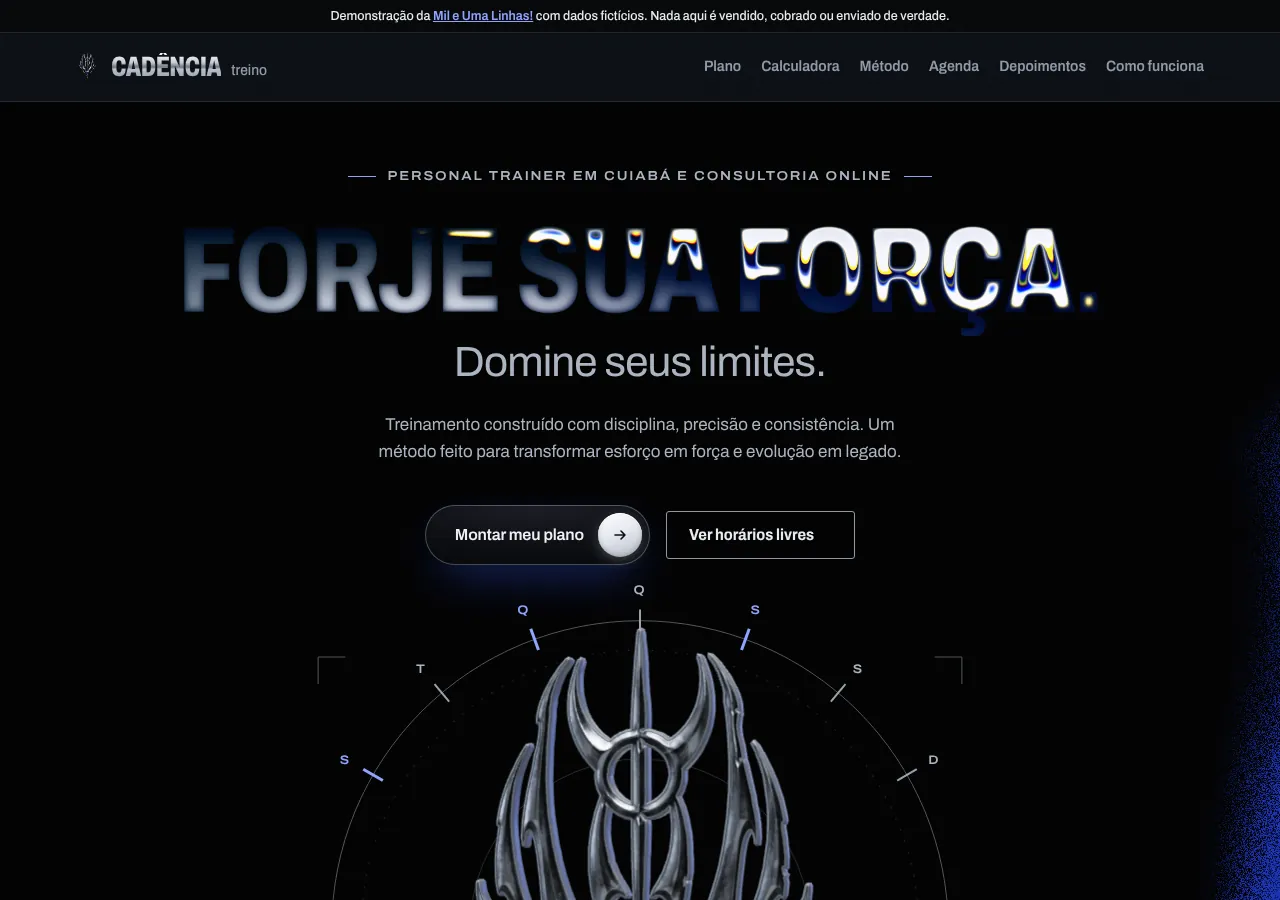
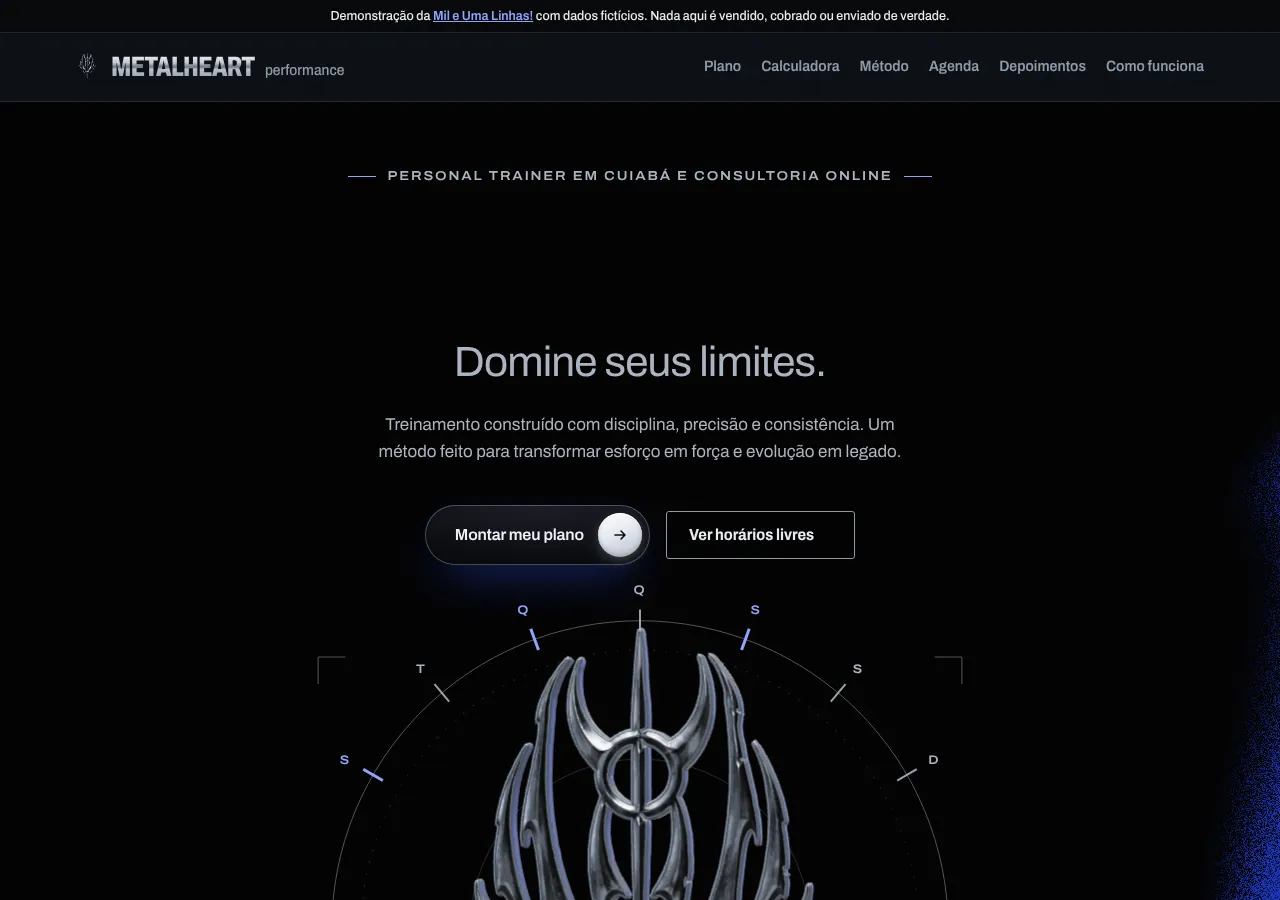
Renomeia para Metalheart Performance
Troca o nome Cadência Treino por Metalheart Performance no título, no topo, no rodapé em retícula, na página 404 e na documentação. Prende a marca apagada dentro da seção do método. A chave do localStorage continua cadencia-reserva.

diff --git a/index.html b/index.html
@@ -4,7 +4,7 @@
   <meta charset="utf-8">
   <meta name="viewport" content="width=device-width, initial-scale=1">
   <meta http-equiv="Content-Security-Policy" content="default-src 'self'; script-src 'self'; style-src 'self'; img-src 'self' data: blob:; font-src 'self'; connect-src 'none'; object-src 'none'; base-uri 'none'; form-action 'none'">
-  <title>Cadência Treino | Personal trainer em Cuiabá e consultoria online</title>
+  <title>Metalheart Performance | Personal trainer em Cuiabá e consultoria online</title>
   <meta name="description" content="Site de demonstração de um personal trainer fictício: monte um plano de treino, calcule IMC e gasto calórico e simule a reserva de um horário. Feito pela Mil e Uma Linhas!.">
   <meta name="theme-color" content="#050709">
   <link rel="canonical" href="https://toshiro01001.github.io/personal/">
@@ -22,10 +22,10 @@
 
 <header class="topo">
   <div class="grade topo-conteudo">
-    <a class="marca" href="#inicio" aria-label="Cadência Treino, início da página">
+    <a class="marca" href="#inicio" aria-label="Metalheart Performance, início da página">
       <img class="marca-simbolo" src="img/sigilo-marca.webp" width="96" height="129" alt="">
-      <span class="marca-nome">CADÊNCIA</span>
-      <span class="marca-sub">treino</span>
+      <span class="marca-nome">METALHEART</span>
+      <span class="marca-sub">performance</span>
     </a>
     <nav class="menu" aria-label="Seções da página">
       <a href="#plano">Plano</a>
@@ -67,7 +67,7 @@
           <line class="mira-dia aceso" x1="73.1" y1="169.0" x2="55.8" y2="159.0"/><text class="aceso" x="40.2" y="154.0" text-anchor="middle">S</text><line class="mira-dia" x1="131.6" y1="99.3" x2="118.7" y2="84.0"/><text class="" x="107.2" y="74.2" text-anchor="middle">T</text><line class="mira-dia aceso" x1="210.4" y1="53.8" x2="203.6" y2="35.0"/><text class="aceso" x="197.4" y="22.1" text-anchor="middle">Q</text><line class="mira-dia" x1="300.0" y1="38.0" x2="300.0" y2="18.0"/><text class="" x="300.0" y="4.0" text-anchor="middle">Q</text><line class="mira-dia aceso" x1="389.6" y1="53.8" x2="396.4" y2="35.0"/><text class="aceso" x="402.6" y="22.1" text-anchor="middle">S</text><line class="mira-dia" x1="468.4" y1="99.3" x2="481.3" y2="84.0"/><text class="" x="492.8" y="74.2" text-anchor="middle">S</text><line class="mira-dia" x1="526.9" y1="169.0" x2="544.2" y2="159.0"/><text class="" x="559.8" y="154.0" text-anchor="middle">D</text>
           <text x="18" y="292">eixo</text><text x="582" y="292" text-anchor="end">3 dias</text>
         </svg>
-        <img class="hero-foto sigilo-fixo" src="img/sigilo-frente.webp" width="640" height="860" alt="Símbolo da Cadência Treino: um emblema de lâminas de aço escuro com pontas afiadas e uma gema azul-cobalto na base. Em volta, uma mira marca os sete dias da semana, com três acesos." fetchpriority="high" decoding="async">
+        <img class="hero-foto sigilo-fixo" src="img/sigilo-frente.webp" width="640" height="860" alt="Símbolo da Metalheart Performance: um emblema de lâminas de aço escuro com pontas afiadas e uma gema azul-cobalto na base. Em volta, uma mira marca os sete dias da semana, com três acesos." fetchpriority="high" decoding="async">
         <div class="sigilo-3d" id="sigilo-3d"></div>
         <canvas class="sigilo-quadro" id="sigilo-quadro" width="640" height="860" aria-hidden="true"></canvas>
         </div>
@@ -400,7 +400,7 @@
       <p class="rodape-miudo">Fonte Archivo, licença OFL. Nenhum dado é coletado.</p>
     </div>
   </div>
-  <div class="hwf" id="hwf" data-palavra="cadência"><canvas aria-hidden="true"></canvas></div>
+  <div class="hwf" id="hwf" data-palavra="metalheart"><canvas aria-hidden="true"></canvas></div>
 </footer>
 
 <script type="module" src="js/premium/premium.js"></script>

diff --git a/404.html b/404.html
@@ -4,7 +4,7 @@
   <meta charset="utf-8">
   <meta name="viewport" content="width=device-width, initial-scale=1">
   <meta http-equiv="Content-Security-Policy" content="default-src 'self'; script-src 'none'; style-src 'self'; img-src 'self' data:; font-src 'self'; connect-src 'none'; object-src 'none'; base-uri 'none'; form-action 'none'">
-  <title>Página não encontrada | Cadência Treino</title>
+  <title>Página não encontrada | Metalheart Performance</title>
   <meta name="robots" content="noindex">
   <link rel="icon" href="/personal/favicon.svg" type="image/svg+xml">
   <link rel="stylesheet" href="/personal/css/estilo.css">
@@ -15,9 +15,9 @@
 </p>
 <header class="topo">
   <div class="grade topo-conteudo">
-    <a class="marca" href="/personal/" aria-label="Cadência Treino, voltar ao início">
-      <span class="marca-nome">CADÊNCIA</span>
-      <span class="marca-sub">treino</span>
+    <a class="marca" href="/personal/" aria-label="Metalheart Performance, voltar ao início">
+      <span class="marca-nome">METALHEART</span>
+      <span class="marca-sub">performance</span>
     </a>
   </div>
 </header>

diff --git a/css/estilo.css b/css/estilo.css
@@ -1,4 +1,4 @@
-/* Cadência Treino: estilo. Ver docs/identidade.md para a lógica das escolhas.
+/* Metalheart Performance (antes Cadência Treino): estilo. Ver docs/identidade.md para a lógica das escolhas.
    Leva final: seções em Giz seguem o padrão de marca de atleta (Lando Norris DS),
    seções em Ferro e rodapé seguem o painel escuro de bordas finas (Ledger DS).
    A paleta não muda; o lima e o esmeralda dos dois sistemas viram Cobalto. */
@@ -1142,3 +1142,4 @@ body::before { content: ""; position: fixed; inset: 0; z-index: 40; pointer-even
 .metal-btn { max-width: 100%; }
 .resultado-plano > * { min-width: 0; }
 @media (max-width: 420px) { .resultado-plano .metal-btn { white-space: normal; text-align: left; line-height: 1.2; padding-left: 22px; } }
+#metodo { overflow-x: clip; }

diff --git a/js/app.js b/js/app.js
@@ -1,4 +1,4 @@
-/* Cadência Treino: comportamento da página.
+/* Metalheart Performance (antes Cadência Treino): comportamento da página.
    Tudo roda no navegador. Nenhum pedido sai para a internet.
    Três partes: montador de plano, calculadora e agenda simulada. */
 (function () {

diff --git a/docs/identidade.md b/docs/identidade.md
@@ -1,9 +1,10 @@
-# Identidade visual: Cadência Treino
+# Identidade visual: Metalheart Performance
 
 ## Versão atual: Fio de Lâmina (15/11/2026)
 
 Esta seção vale no lugar das regras antigas de cor, imagem forte e fotos descritas mais abaixo, que ficam como histórico da versão clara.
 
+- **Nome**: Metalheart Performance, trocado em 15/11/2026 no lugar de Cadência Treino. O nome vem da própria estética do site.
 - **Estilo**: Fio de Lâmina, na estética Metalheart (fim dos anos 1990 a meados dos 2000). Aço escuro, relevo, miras e marcações técnicas em letra pequena e espaçada.
 - **Símbolo**: o Sigilo, emblema de lâminas de aço com uma gema. Aqui a gema é azul-cobalto. Aparece grande na abertura, pequeno ao lado do nome e simplificado no favicon.
 - **Paleta**: fundos `#0B0E13`, `#10141B` e `#050709`; cartões `#0D1117`; texto `#E7EBF1`; Aço `#8F98A7` e Aço claro `#AAB3C0` para texto secundário; linhas `#252B35`. Cobalto `#2140D9` e Cobalto claro `#8FA2FF` são o único ponto de cor.
@@ -15,7 +16,7 @@ Esta seção vale no lugar das regras antigas de cor, imagem forte e fotos descr
 - **Fotos**: cenas escuras com luz fria de lado e um único objeto azul-cobalto em cada uma, geradas por IA no ChatGPT, ilustrativas. Pessoas sempre de costas.
 - **Frase da abertura**: "Forje sua força. Domine seus limites.", com o apoio "Treinamento construído com disciplina, precisão e consistência. Um método feito para transformar esforço em força e evolução em legado." Ela substitui "Treino que cabe na sua semana e dura o ano inteiro".
 - **Fonte**: continua só a Archivo variável, local.
-- **Componentes premium (15/11/2026)**: a abertura segue a composição do hero do Mosaik (texto no centro, a marca de metal embaixo, girando 0,7 volta com a rolagem e vazando para a seção seguinte). "Forje sua força." é o Cromo, metal líquido dentro das letras. O botão principal é o Mercúrio. A luz azul das bordas é a Moldura. Depois da abertura vem a Esteira, com os locais, treinos de exemplo e falas. Os cartões do método são Holo Cards com folha só em azuis. As placas têm a luz que segue o cursor e o método tem a marca apagada com parallax, do Mosaik. O rodapé termina no Halftone Wordmark Footer, com "cadência" em pontos que esquentam para o Cobalto claro. Todos vêm do ProfitizeBuild; a cena 3D do símbolo segue a ferramenta SVG to 3D do GetLayers.
+- **Componentes premium (15/11/2026)**: a abertura segue a composição do hero do Mosaik (texto no centro, a marca de metal embaixo, girando 0,7 volta com a rolagem e vazando para a seção seguinte). "Forje sua força." é o Cromo, metal líquido dentro das letras. O botão principal é o Mercúrio. A luz azul das bordas é a Moldura. Depois da abertura vem a Esteira, com os locais, treinos de exemplo e falas. Os cartões do método são Holo Cards com folha só em azuis. As placas têm a luz que segue o cursor e o método tem a marca apagada com parallax, do Mosaik. O rodapé termina no Halftone Wordmark Footer, com "metalheart" em pontos que esquentam para o Cobalto claro. Todos vêm do ProfitizeBuild; a cena 3D do símbolo segue a ferramenta SVG to 3D do GetLayers.
 - **Movimento novo**: um brilho varre o título da abertura uma vez, depois que as linhas aparecem. O resto é o que já existia.
 
 Estudo curto feito antes do código. Tudo aqui é fictício: a empresa, o profissional, os preços e os depoimentos.

diff --git a/README.md b/README.md
@@ -1,4 +1,4 @@
-# Cadência Treino
+# Metalheart Performance
 
 Este é um site de demonstração que eu, Rodrigo Jr, da [Mil e Uma Linhas!](https://mileumalinhas.com.br), fiz para mostrar a personal trainers como poderia ser o site deles. Ele está publicado em https://toshiro01001.github.io/personal/.
 
@@ -6,7 +6,7 @@ Este é um site de demonstração que eu, Rodrigo Jr, da [Mil e Uma Linhas!](htt
 
 ## O que é, em uma frase
 
-É o site de um personal trainer inventado, o Tiago Maciel, da "Cadência Treino": você escolhe seu objetivo e vê um plano de treino de exemplo com o preço, calcula seu IMC e seu gasto calórico e escolhe um horário para uma aula de experiência. Tudo funciona na hora, dentro da página.
+É o site de um personal trainer inventado, o Tiago Maciel, da "Metalheart Performance": você escolhe seu objetivo e vê um plano de treino de exemplo com o preço, calcula seu IMC e seu gasto calórico e escolhe um horário para uma aula de experiência. Tudo funciona na hora, dentro da página.
 
 ## Aviso: tudo aqui é fictício
 
@@ -33,7 +33,7 @@ A empresa, o profissional, o endereço, o telefone, os preços, os horários ocu
 
 O estudo completo está em [`docs/identidade.md`](docs/identidade.md).
 
-- **Nome e ideia**: Cadência Treino. A frase da abertura é "Forje sua força. Domine seus limites.", e o método continua sendo constância: poucos dias por semana, repetidos por meses.
+- **Nome e ideia**: Metalheart Performance (até 15/11/2026 o site se chamava Cadência Treino). A frase da abertura é "Forje sua força. Domine seus limites.", e o método continua sendo constância: poucos dias por semana, repetidos por meses.
 - **Estilo**: Fio de Lâmina, na estética Metalheart (fim dos anos 1990 a meados dos 2000): aço escuro, títulos e números cromados, miras e marcações técnicas.
 - **Paleta**: fundos de aço quase preto (`#0B0E13`, `#10141B`, `#050709`), texto claro `#E7EBF1`, Aço `#8F98A7` (texto secundário) e um único ponto de cor, Cobalto `#2140D9`, no botão principal, nos dias acesos e na gema do símbolo.
 - **Fonte**: só uma, a Archivo variável (licença OFL), servida do próprio site em `fonts/`. Nos títulos ela fica condensada e pesada, como número de camisa; no texto fica normal. Nenhuma fonte vem de fora.

diff --git a/CLAUDE.md b/CLAUDE.md
@@ -1,4 +1,6 @@
-# Cadência Treino
+# Metalheart Performance
+
+Até 15/11/2026 este site se chamava Cadência Treino; a chave `cadencia-reserva` do `localStorage`, a pasta `cadencia-premium` da fonte e alguns nomes de classe guardam o nome antigo de propósito.
 
 Site de demonstração de um personal trainer fictício (treino presencial e consultoria online), em HTML, CSS e JavaScript próprios, com componentes premium em WebGL servidos do próprio site, feito pela Mil e Uma Linhas! para mostrar a clientes dessa profissão como poderia ser o site deles. Tudo é fictício: empresa, profissional, preços, horários e depoimentos. O `README.md` explica a organização dos arquivos e `docs/identidade.md` explica as escolhas visuais.
 

diff --git a/docs/vistoria.md b/docs/vistoria.md
@@ -1,4 +1,4 @@
-# Vistoria de segurança: Cadência Treino
+# Vistoria de segurança: Metalheart Performance (antes Cadência Treino)
 
 Data: 2026-11-08. Site estático de demonstração, publicado no GitHub Pages.
 
